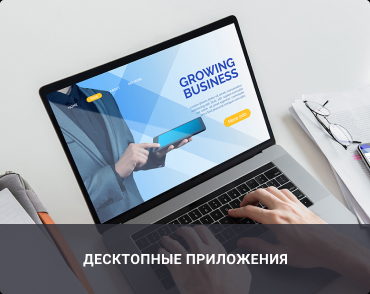
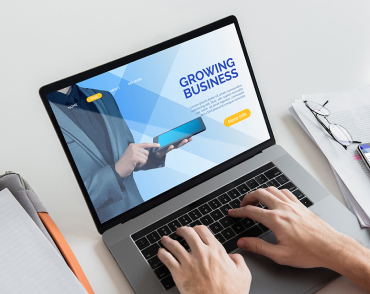
v1.3

Changed region(s): [[0.0, 0.7347, 1.0, 1.0]]

diff --git a/index.html b/index.html
@@ -30,11 +30,10 @@
         </ul>
         <address>
           <a href="mailto:info@devstudio.com" class="header-nav-adress">
-            <img src="images/envelope.svg" alt="info@devstudio.com" />
             info@devstudio.com
           </a>
           <a href="tel:+80961111111" class="header-nav-adress">
-            <img src="images/smartphone.svg" alt="" />+80961111111
+            +80961111111
           </a>
         </address>
       </nav>
@@ -42,7 +41,7 @@
     <!-- основная часть -->
     <main>
       <!-- Заказ услуг -->
-      <section>
+      <section class="services-hero">
         <h1 class="services-text-hero">
           эффективные решения для вашего бизнеса
         </h1>
@@ -101,33 +100,36 @@
         <h2 class="section-title">Чем мы занимаемся</h2>
         <ul>
           <li>
-            <a href="#">
+            <a href="#" class="what-are-we-doing-text">
               <img
                 src="images/desctop-apps.jpg"
                 alt="desctop-apps"
                 width="370"
                 height="295"
               />
+              Десктопные приложения
             </a>
           </li>
           <li>
-            <a href="#">
+            <a href="#" class="what-are-we-doing-text">
               <img
                 src="images/mobile-apps.jpg"
                 alt="mobile-apps"
                 width="370"
                 height="295"
               />
+              Мобильные приложения
             </a>
           </li>
           <li>
-            <a href="#">
+            <a href="#" class="what-are-we-doing-text">
               <img
                 src="images/design.jpg"
                 alt="design"
                 width="370"
                 height="295"
               />
+              Дизайнерские решения
             </a>
           </li>
         </ul>
@@ -137,15 +139,14 @@
         <h2 class="section-title">Наша команда</h2>
         <ul>
           <li>
-            <a href="#">
-              <img
-                src="images/john-smith.jpg"
-                alt="John Smith"
-                width="270"
-                height="260"
-              />
-            </a>
-            <h3 class="our-team-title">John Smith</h3>
+            <img
+              src="images/john-smith.jpg"
+              alt="John Smith"
+              width="270"
+              height="260"
+            />
+
+            <h3 class="our-team-title">Николай Кучеренко</h3>
             <p class="our-team-text">Product Designer</p>
             <div>
               <a
@@ -199,15 +200,13 @@
             </div>
           </li>
           <li>
-            <a href="#">
-              <img
-                src="images/marta-stewart.jpg"
-                alt="Marta Stewart"
-                width="270"
-                height="260"
-              />
-            </a>
-            <h3 class="our-team-title">Marta Stewart</h3>
+            <img
+              src="images/marta-stewart.jpg"
+              alt="Marta Stewart"
+              width="270"
+              height="260"
+            />
+            <h3 class="our-team-title">Ольга Иванова</h3>
             <p class="our-team-text">Frontend Developer</p>
             <div>
               <a
@@ -261,15 +260,13 @@
             </div>
           </li>
           <li>
-            <a href="#">
-              <img
-                src="images/robert-jakis.jpg"
-                alt="Robert Jakis"
-                width="270"
-                height="260"
-              />
-            </a>
-            <h3 class="our-team-title">Robert Jakis</h3>
+            <img
+              src="images/robert-jakis.jpg"
+              alt="Robert Jakis"
+              width="270"
+              height="260"
+            />
+            <h3 class="our-team-title">Андрей Шевченко</h3>
             <p class="our-team-text">Marketing</p>
             <div>
               <a
@@ -323,15 +320,13 @@
             </div>
           </li>
           <li>
-            <a href="#">
-              <img
-                src="images/martin-doe.jpg"
-                alt="Martin Doe"
-                width="270"
-                height="260"
-              />
-            </a>
-            <h3 class="our-team-title">Martin Doe</h3>
+            <img
+              src="images/martin-doe.jpg"
+              alt="Martin Doe"
+              width="270"
+              height="260"
+            />
+            <h3 class="our-team-title">Иван Николаев</h3>
             <p class="our-team-text">UI Designer</p>
             <div>
               <a
@@ -467,22 +462,27 @@
           />
         </a>
         <address>
-          <a
-            href="https://www.google.com/maps/place/бул.+Леси+Украинки,+26,+Киев,+02000/data=!4m2!3m1!1s0x40d4cf0e033ecbe9:0x57a4dffefec77da0?sa=X&ved=2ahUKEwjTxvzg49PpAhVElosKHf4JD2gQ8gEwAHoECAsQAQ"
-            target="_blank"
-            rel="noopener nofollow noreferrer"
-            class="footer-adress-map"
-            >г. Киев, пр-т Леси Украинки, 26</a
-          ><br />
-          <a href="mailto:info@devstudio.com" class="footer-adress-link">
-            <img src="images/envelope.svg" alt="info@devstudio.com" />
-            info@devstudio.com
-          </a>
-          <br />
-          <a href="tel:+80961111111" class="footer-adress-link">
-            <img src="images/smartphone.svg" alt="" />+80961111111
-          </a>
-          <br />
+          <ul>
+            <li>
+              <a
+                href="https://www.google.com/maps/place/бул.+Леси+Украинки,+26,+Киев,+02000/data=!4m2!3m1!1s0x40d4cf0e033ecbe9:0x57a4dffefec77da0?sa=X&ved=2ahUKEwjTxvzg49PpAhVElosKHf4JD2gQ8gEwAHoECAsQAQ"
+                target="_blank"
+                rel="noopener nofollow noreferrer"
+                class="footer-adress-map"
+                >г. Киев, пр-т Леси Украинки, 26</a
+              >
+            </li>
+            <li>
+              <a href="mailto:info@devstudio.com" class="footer-adress-link">
+                info@devstudio.com
+              </a>
+            </li>
+            <li>
+              <a href="tel:+80961111111" class="footer-adress-link">
+                +80961111111</a
+              >
+            </li>
+          </ul>
           <!-- Социальные сети -->
           <p class="footer-titles">присоединяйтесь</p>
           <a

diff --git a/portfolio.html b/portfolio.html
@@ -31,11 +31,10 @@
         </ul>
         <address>
           <a href="mailto:info@devstudio.com" class="header-nav-adress">
-            <img src="images/envelope.svg" alt="info@devstudio.com" />
             info@devstudio.com
           </a>
           <a href="tel:+80961111111" class="header-nav-adress">
-            <img src="images/smartphone.svg" alt="" />+80961111111
+            +80961111111
           </a>
         </address>
       </nav>
@@ -47,27 +46,27 @@
         <ul>
           <li>
             <button type="button" class="filters-button">
-              <span class="main-filters-headers"> Все </span>
+              Все
             </button>
           </li>
           <li>
             <button type="button" class="filters-button">
-              <span class="main-filters-headers">Веб-сайты </span>
+              Веб-сайты
             </button>
           </li>
           <li>
             <button type="button" class="filters-button">
-              <span class="main-filters-headers">Приложения </span>
+              Приложения
             </button>
           </li>
           <li>
             <button type="button" class="filters-button">
-              <span class="main-filters-headers">Дизайн </span>
+              Дизайн
             </button>
           </li>
           <li>
             <button type="button" class="filters-button">
-              <span class="main-filters-headers"> Маркетинг </span>
+              Маркетинг
             </button>
           </li>
         </ul>
@@ -199,22 +198,27 @@
           />
         </a>
         <address>
-          <a
-            href="https://www.google.com/maps/place/бул.+Леси+Украинки,+26,+Киев,+02000/data=!4m2!3m1!1s0x40d4cf0e033ecbe9:0x57a4dffefec77da0?sa=X&ved=2ahUKEwjTxvzg49PpAhVElosKHf4JD2gQ8gEwAHoECAsQAQ"
-            target="_blank"
-            rel="noopener nofollow noreferrer"
-            class="footer-adress-map"
-            >г. Киев, пр-т Леси Украинки, 26</a
-          ><br />
-          <a href="mailto:info@devstudio.com" class="footer-adress-link">
-            <img src="images/envelope.svg" alt="info@devstudio.com" />
-            info@devstudio.com
-          </a>
-          <br />
-          <a href="tel:+80961111111" class="footer-adress-link">
-            <img src="images/smartphone.svg" alt="" />+80961111111
-          </a>
-          <br />
+          <ul>
+            <li>
+              <a
+                href="https://www.google.com/maps/place/бул.+Леси+Украинки,+26,+Киев,+02000/data=!4m2!3m1!1s0x40d4cf0e033ecbe9:0x57a4dffefec77da0?sa=X&ved=2ahUKEwjTxvzg49PpAhVElosKHf4JD2gQ8gEwAHoECAsQAQ"
+                target="_blank"
+                rel="noopener nofollow noreferrer"
+                class="footer-adress-map"
+                >г. Киев, пр-т Леси Украинки, 26</a
+              >
+            </li>
+            <li>
+              <a href="mailto:info@devstudio.com" class="footer-adress-link">
+                info@devstudio.com
+              </a>
+            </li>
+            <li>
+              <a href="tel:+80961111111" class="footer-adress-link">
+                +80961111111</a
+              >
+            </li>
+          </ul>
           <!-- Социальные сети -->
           <p class="footer-titles">присоединяйтесь</p>
           <a

diff --git a/css/styles.css b/css/styles.css
@@ -14,12 +14,14 @@ li {
 }
 body {
   color: #212121;
-  background-color: #96969652; /* временный цвет для удобства */
   font-family: Roboto, sans-serif;
   letter-spacing: 0.03em;
 }
 .hide-headers {
   display: none;
+}
+footer {
+  background-color: #2f303a;
 }
 :root {
   --main-color-black: #212121;
@@ -91,10 +93,13 @@ body {
   text-align: center;
   color: var(--main-color-black);
 }
+/*  services hero селеткторы*/
 /* Селекторы секции заказа услуг */
+.services-hero {
+  background-color: #96969652; /* временный цвет для удобства */
+}
 .services-text-hero {
   font-weight: 900;
-  font-size: 44px;
   line-height: 1.36;
   text-align: center;
   letter-spacing: 0.06em;
@@ -123,6 +128,13 @@ body {
   color: var(--sub-main-color-black);
 }
 /* Селекторы секции чем мы занимаемся */
+.what-are-we-doing-text {
+  font-weight: 700;
+  font-size: 14px;
+  line-height: 1.14;
+  text-transform: uppercase;
+  color: var(--main-color-white);
+}
 /* Селекторы секции наша команда */
 .our-team-title {
   font-weight: 500;
@@ -140,15 +152,14 @@ body {
 }
 /* ----Селекторы страницы portfolio.html---- */
 /* секция фильтров */
-.main-filters-headers {
-  font-weight: 500;
-  font-size: 16px;
-  line-height: 1.62;
-}
+
 .filters-button {
   background-color: #f5f4fa;
   border-radius: 4px;
   border: none;
+  font-weight: 500;
+  font-size: 16px;
+  line-height: 1.62;
 }
 .filters-button:hover,
 .filters-button:focus {
